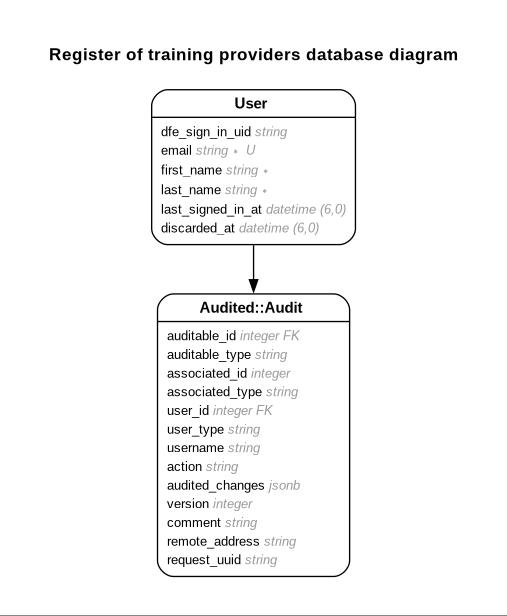
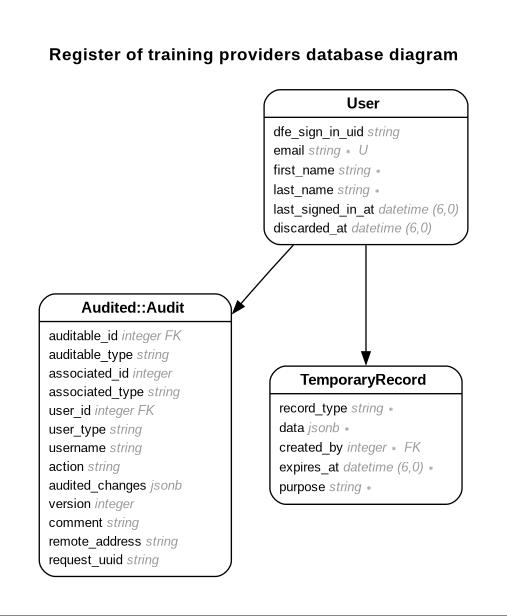
[0079] Added temporary records

Changed region(s): [[0.0592, 0.1234, 0.9467, 0.9562]]

diff --git a/db/schema.rb b/db/schema.rb
@@ -10,7 +10,7 @@
 #
 # It's strongly recommended that you check this file into your version control system.
 
-ActiveRecord::Schema[8.0].define(version: 2025_06_17_085424) do
+ActiveRecord::Schema[8.0].define(version: 2025_06_18_104016) do
   # These are extensions that must be enabled in order to support this database
 
   create_table "audits", force: :cascade do |t|
@@ -156,6 +156,19 @@ ActiveRecord::Schema[8.0].define(version: 2025_06_17_085424) do
     t.index ["key"], name: "index_solid_queue_semaphores_on_key", unique: true
   end
 
+  create_table "temporary_records", force: :cascade do |t|
+    t.string "record_type", null: false
+    t.jsonb "data", default: {}, null: false
+    t.integer "created_by", null: false
+    t.datetime "expires_at", null: false
+    t.string "purpose", default: "0", null: false
+    t.datetime "created_at", null: false
+    t.datetime "updated_at", null: false
+    t.index ["created_by", "record_type", "purpose"], name: "index_temp_records_on_creator_type_purpose", unique: true
+    t.index ["created_by"], name: "index_temporary_records_on_created_by"
+    t.index ["expires_at"], name: "index_temporary_records_on_expires_at"
+  end
+
   create_table "users", force: :cascade do |t|
     t.string "dfe_sign_in_uid"
     t.string "email", null: false
@@ -175,4 +188,5 @@ ActiveRecord::Schema[8.0].define(version: 2025_06_17_085424) do
   add_foreign_key "solid_queue_ready_executions", "solid_queue_jobs", column: "job_id", on_delete: :cascade
   add_foreign_key "solid_queue_recurring_executions", "solid_queue_jobs", column: "job_id", on_delete: :cascade
   add_foreign_key "solid_queue_scheduled_executions", "solid_queue_jobs", column: "job_id", on_delete: :cascade
+  add_foreign_key "temporary_records", "users", column: "created_by"
 end

diff --git a/spec/models/temporary_record_spec.rb b/spec/models/temporary_record_spec.rb
@@ -1,0 +1,61 @@
+require "rails_helper"
+
+RSpec.describe TemporaryRecord, type: :model do
+  let(:creator) { create(:user) }
+  let(:user_data) { { "first_name" => "Jane", "last_name" => "Doe", "email" => "jane@example.com" } }
+
+  subject do
+    create(:temporary_record,
+           record_type: "User",
+           data: user_data,
+           created_by: creator.id,
+           expires_at: 1.hour.from_now,
+           purpose: "check_your_answers")
+  end
+
+  describe "associations" do
+    it { is_expected.to belong_to(:creator).class_name("User").with_foreign_key(:created_by) }
+  end
+
+  describe "enum purpose" do
+    it do
+      expect(subject).to define_enum_for(:purpose)
+        .with_values(
+          check_your_answers: "check_your_answers",
+        )
+        .backed_by_column_of_type(:string)
+    end
+  end
+
+  describe "#expired?" do
+    it "returns false if expires_at in future" do
+      expect(subject.expired?).to eq(false)
+    end
+
+    it "returns true if expires_at in past" do
+      subject.expires_at = 1.hour.ago
+      expect(subject.expired?).to eq(true)
+    end
+  end
+
+  describe ".expired scope" do
+    before do
+      create(:temporary_record, expires_at: 1.hour.ago)
+      create(:temporary_record, expires_at: 1.hour.from_now)
+    end
+
+    it "returns only expired records" do
+      expect(TemporaryRecord.expired.count).to eq(1)
+    end
+  end
+
+  describe "#rehydrate" do
+    it "returns a new instance of the stored model with data" do
+      rehydrated = subject.rehydrate
+      expect(rehydrated).to be_a(User)
+      expect(rehydrated.first_name).to eq("Jane")
+      expect(rehydrated.last_name).to eq("Doe")
+      expect(rehydrated.email).to eq("jane@example.com")
+    end
+  end
+end

diff --git a/app/models/temporary_record.rb b/app/models/temporary_record.rb
@@ -1,0 +1,46 @@
+# == Schema Information
+#
+# Table name: temporary_records
+#
+#  id          :bigint           not null, primary key
+#  created_by  :integer          not null
+#  data        :jsonb            not null
+#  expires_at  :datetime         not null
+#  purpose     :string           default(NULL), not null
+#  record_type :string           not null
+#  created_at  :datetime         not null
+#  updated_at  :datetime         not null
+#
+# Indexes
+#
+#  index_temp_records_on_creator_type_purpose  (created_by,record_type,purpose) UNIQUE
+#  index_temporary_records_on_created_by       (created_by)
+#  index_temporary_records_on_expires_at       (expires_at)
+#
+# Foreign Keys
+#
+#  fk_rails_...  (created_by => users.id)
+#
+class TemporaryRecord < ApplicationRecord
+  belongs_to :creator, class_name: "User", foreign_key: :created_by
+
+  enum :purpose, {
+    check_your_answers: "check_your_answers"
+  }
+
+  scope :expired, -> { where(expires_at: ..Time.current) }
+
+  def expired?
+    expires_at <= Time.current
+  end
+
+  def rehydrate
+    record_type.constantize.new(**safe_data)
+  end
+
+private
+
+  def safe_data
+    record_type.constantize.attribute_names.index_with { |attr| data[attr] }
+  end
+end

diff --git a/db/migrate/20250618104016_create_temporary_records.rb b/db/migrate/20250618104016_create_temporary_records.rb
@@ -1,0 +1,20 @@
+class CreateTemporaryRecords < ActiveRecord::Migration[8.0]
+  def change
+    create_table :temporary_records do |t|
+      t.string :record_type, null: false
+      t.jsonb :data, null: false, default: {}
+      t.integer :created_by, null: false, index: true
+      t.datetime :expires_at, null: false
+      t.string :purpose, null: false, default: 0
+
+      t.timestamps
+    end
+
+    add_foreign_key :temporary_records, :users, column: :created_by
+    add_index :temporary_records,
+              %i[created_by record_type purpose],
+              unique: true,
+              name: "index_temp_records_on_creator_type_purpose"
+    add_index :temporary_records, :expires_at
+  end
+end

diff --git a/test/factories/temporary_records.rb b/test/factories/temporary_records.rb
@@ -1,0 +1,27 @@
+FactoryBot.define do
+  factory :temporary_record do
+    association :creator, factory: :user
+
+    expires_at { 1.day.from_now }
+
+    for_user_model
+    with_purpose
+
+    trait :expired do
+      expires_at { 1.day.ago }
+    end
+
+    trait :for_user_model do
+      record_type { "User" }
+      data { attributes_for(:user) }
+    end
+
+    trait :with_purpose do
+      transient do
+        temp_purpose { "check_your_answers" }
+      end
+
+      purpose { temp_purpose }
+    end
+  end
+end

diff --git a/app/models/user.rb b/app/models/user.rb
@@ -20,6 +20,9 @@
 
 class User < ApplicationRecord
   include Discard::Model
+  include SaveAsTemporary
+
+  has_many :temporary_records, foreign_key: :created_by, dependent: :destroy
 
   audited
 
